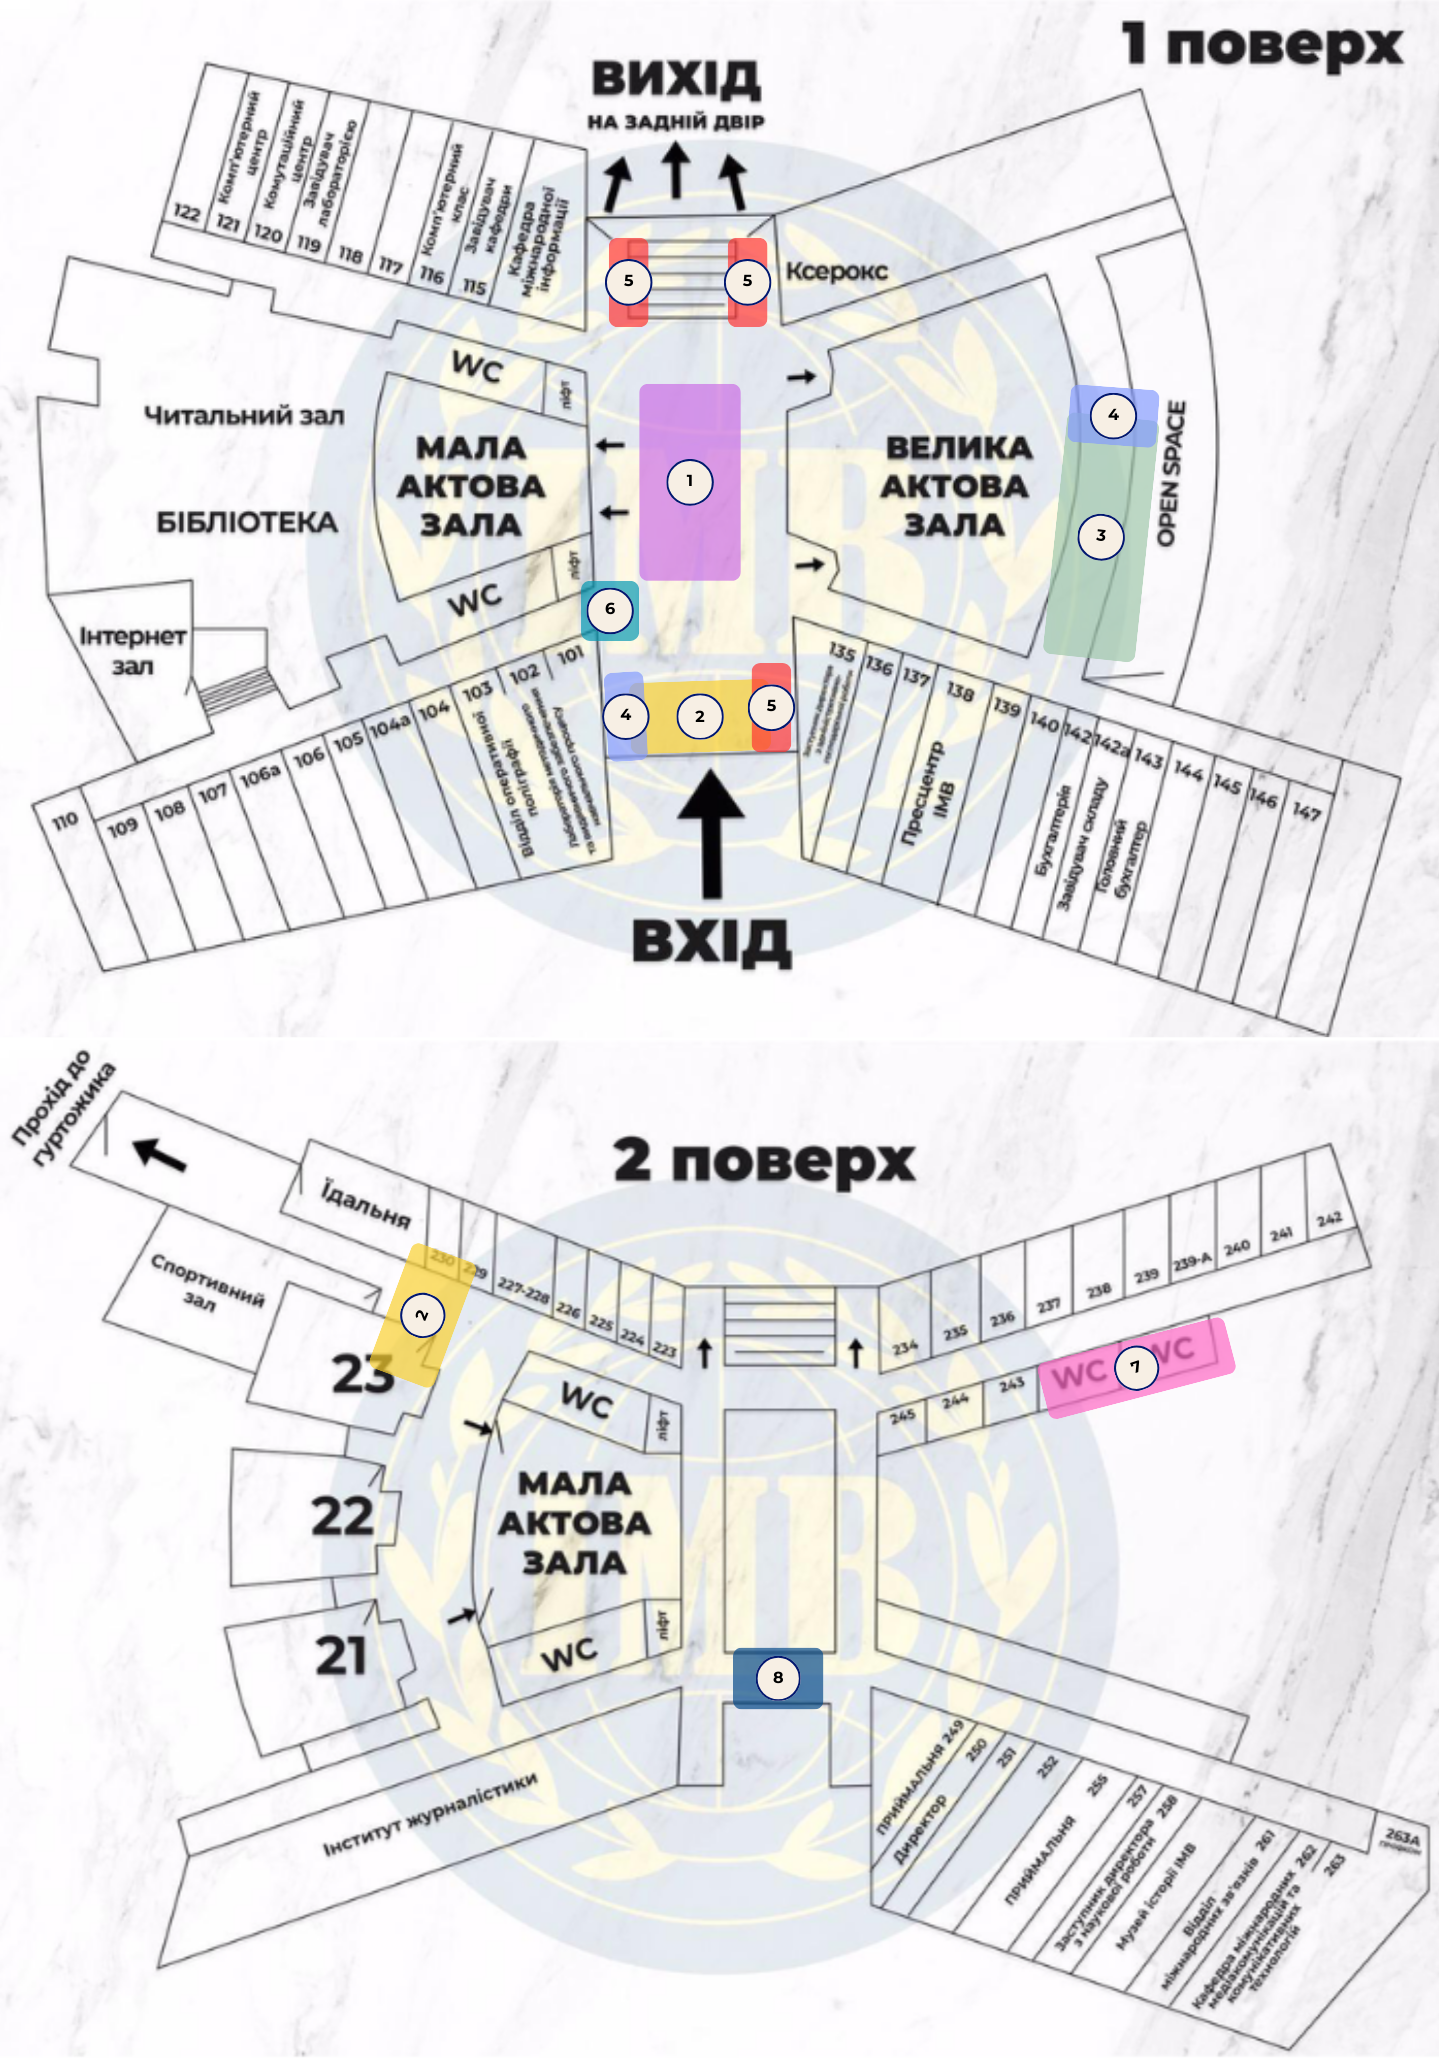
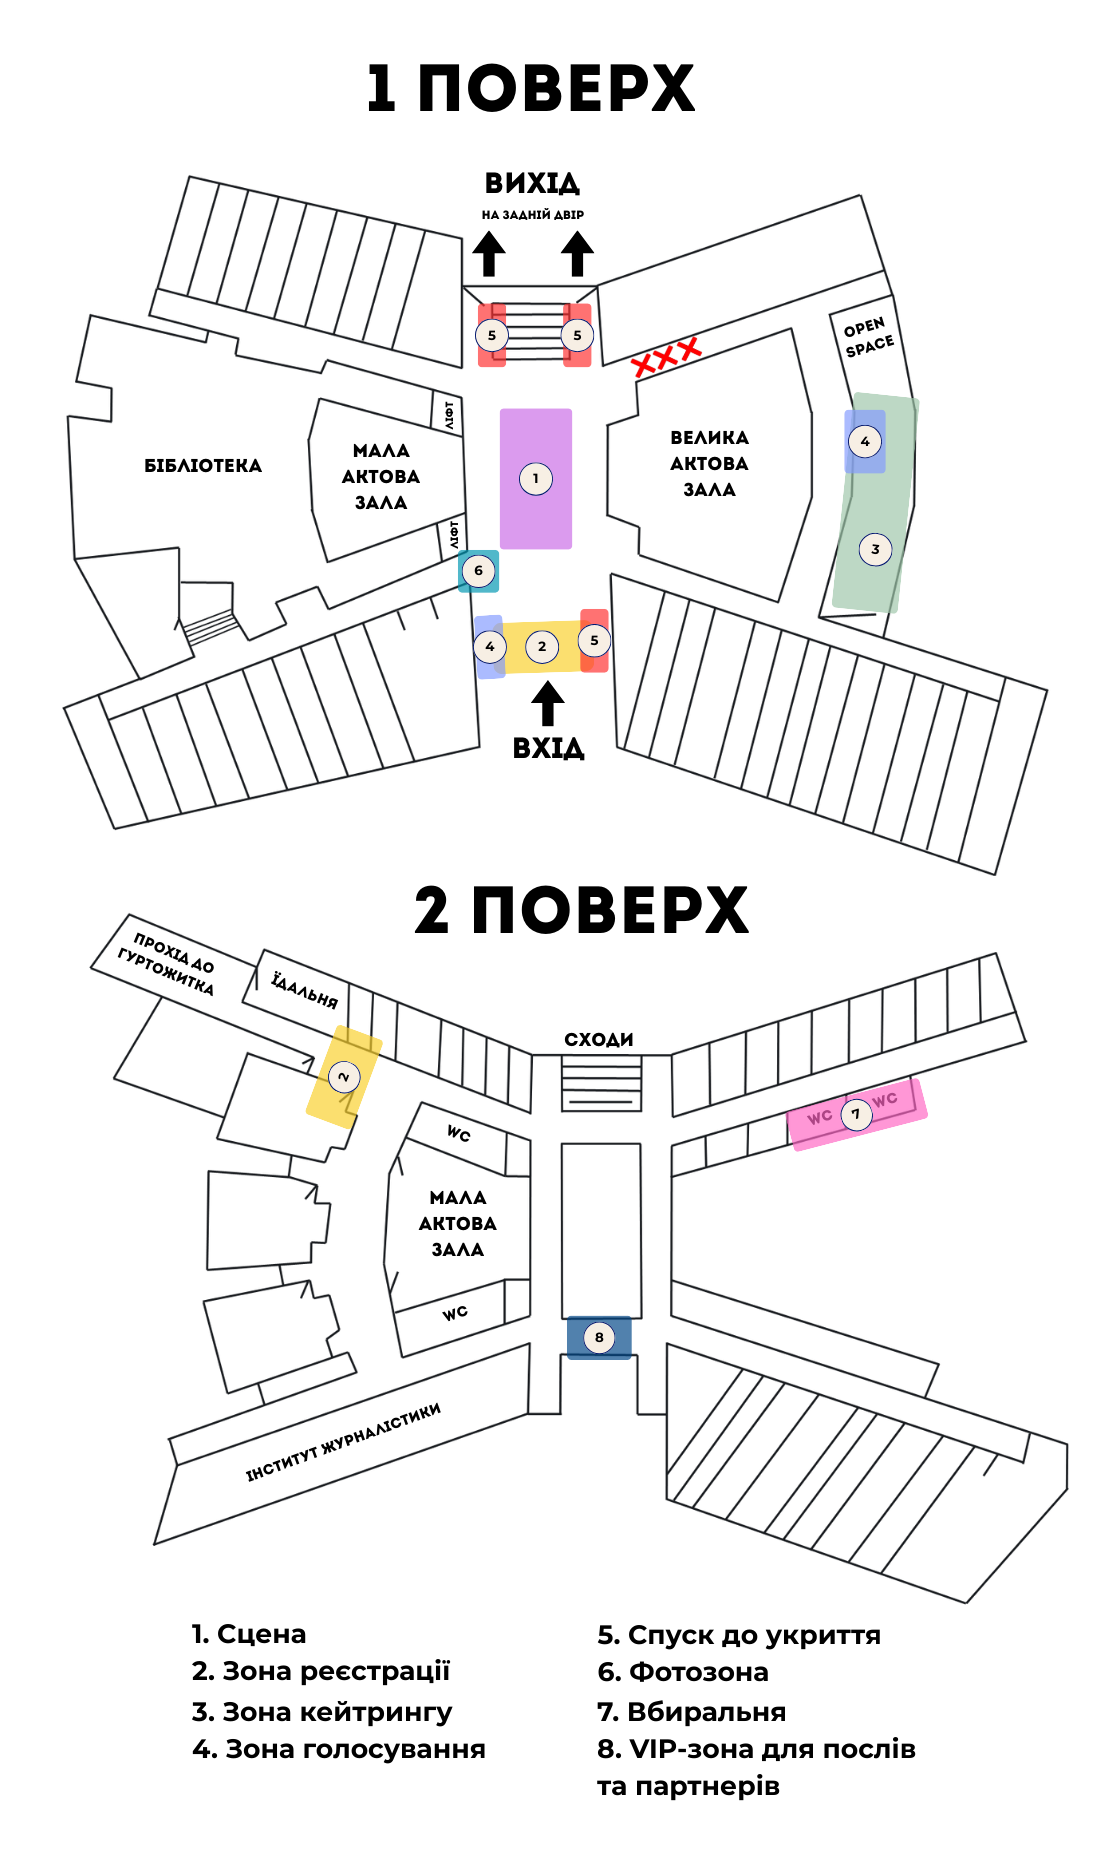
Made not ugly map

diff --git a/index.html b/index.html
@@ -221,47 +221,7 @@
         <h1 class="debutants">МАПА ЗАХОДУ</h1>
         <img class="desktop-map d-lg-block d-none" src="map-desktop.png" />
 
-        <div class="container legend-container d-lg-block d-none">
-          <div class="row">
-            <div class="col-3">
-              <p>1. Сцена</p>
-              <p>2. Зона реєстрації</p>
-            </div>
-            <div class="col-3">
-              <p>3. Зона кейтрингу</p>
-              <p>4. Зона голосування</p>
-            </div>
-            <div class="col-3">
-              <p>5. Спуск до укриття</p>
-              <p>6. Фотозона</p>
-            </div>
-            <div class="col-3">
-              <p>7. Вбиральня</p>
-              <p>8. VIP-зона для послів та партнерів</p>
-            </div>
-          </div>
-        </div>
-
         <img class="desktop-map d-lg-none d-block" src="map-mobile.png" />
-
-        <div class="container legend-container d-lg-none d-block">
-          <div class="row">
-            <div class="col-6">
-              <p>1. Сцена</p>
-              <p>2. Зона реєстрації</p>
-
-              <p>3. Зона кейтрингу</p>
-              <p>4. Зона голосування</p>
-            </div>
-            <div class="col-6">
-              <p>5. Спуск до укриття</p>
-              <p>6. Фотозона</p>
-
-              <p>7. Вбиральня</p>
-              <p>8. VIP-зона для послів та партнерів</p>
-            </div>
-          </div>
-        </div>
 
         <h1 class="debutants">ДЕБЮТАНТИ</h1>
 

diff --git a/style.css b/style.css
@@ -62,13 +62,6 @@ img.header {
   border-radius: 15px;
 }
 
-.legend-container {
-  font-family: "Great Vibes", cursive;
-  font-weight: 500;
-  font-size: 25px;
-  margin-bottom: 15px;
-  margin-top: 20px;
-}
 .debutants {
   font-family: "Cormorant SC", serif;
   font-weight: 700;
@@ -160,9 +153,6 @@ img.header {
   }
 
   .programm-timing {
-    font-size: 20px;
-  }
-  .legend-container {
     font-size: 20px;
   }
 }
@@ -298,9 +288,7 @@ img.header {
   .buy-ticket-button {
     font-size: 18px;
   }
-  .legend-container {
-    font-size: 15px;
-  }
+
   .mobile-map {
     border-radius: 0px;
   }
